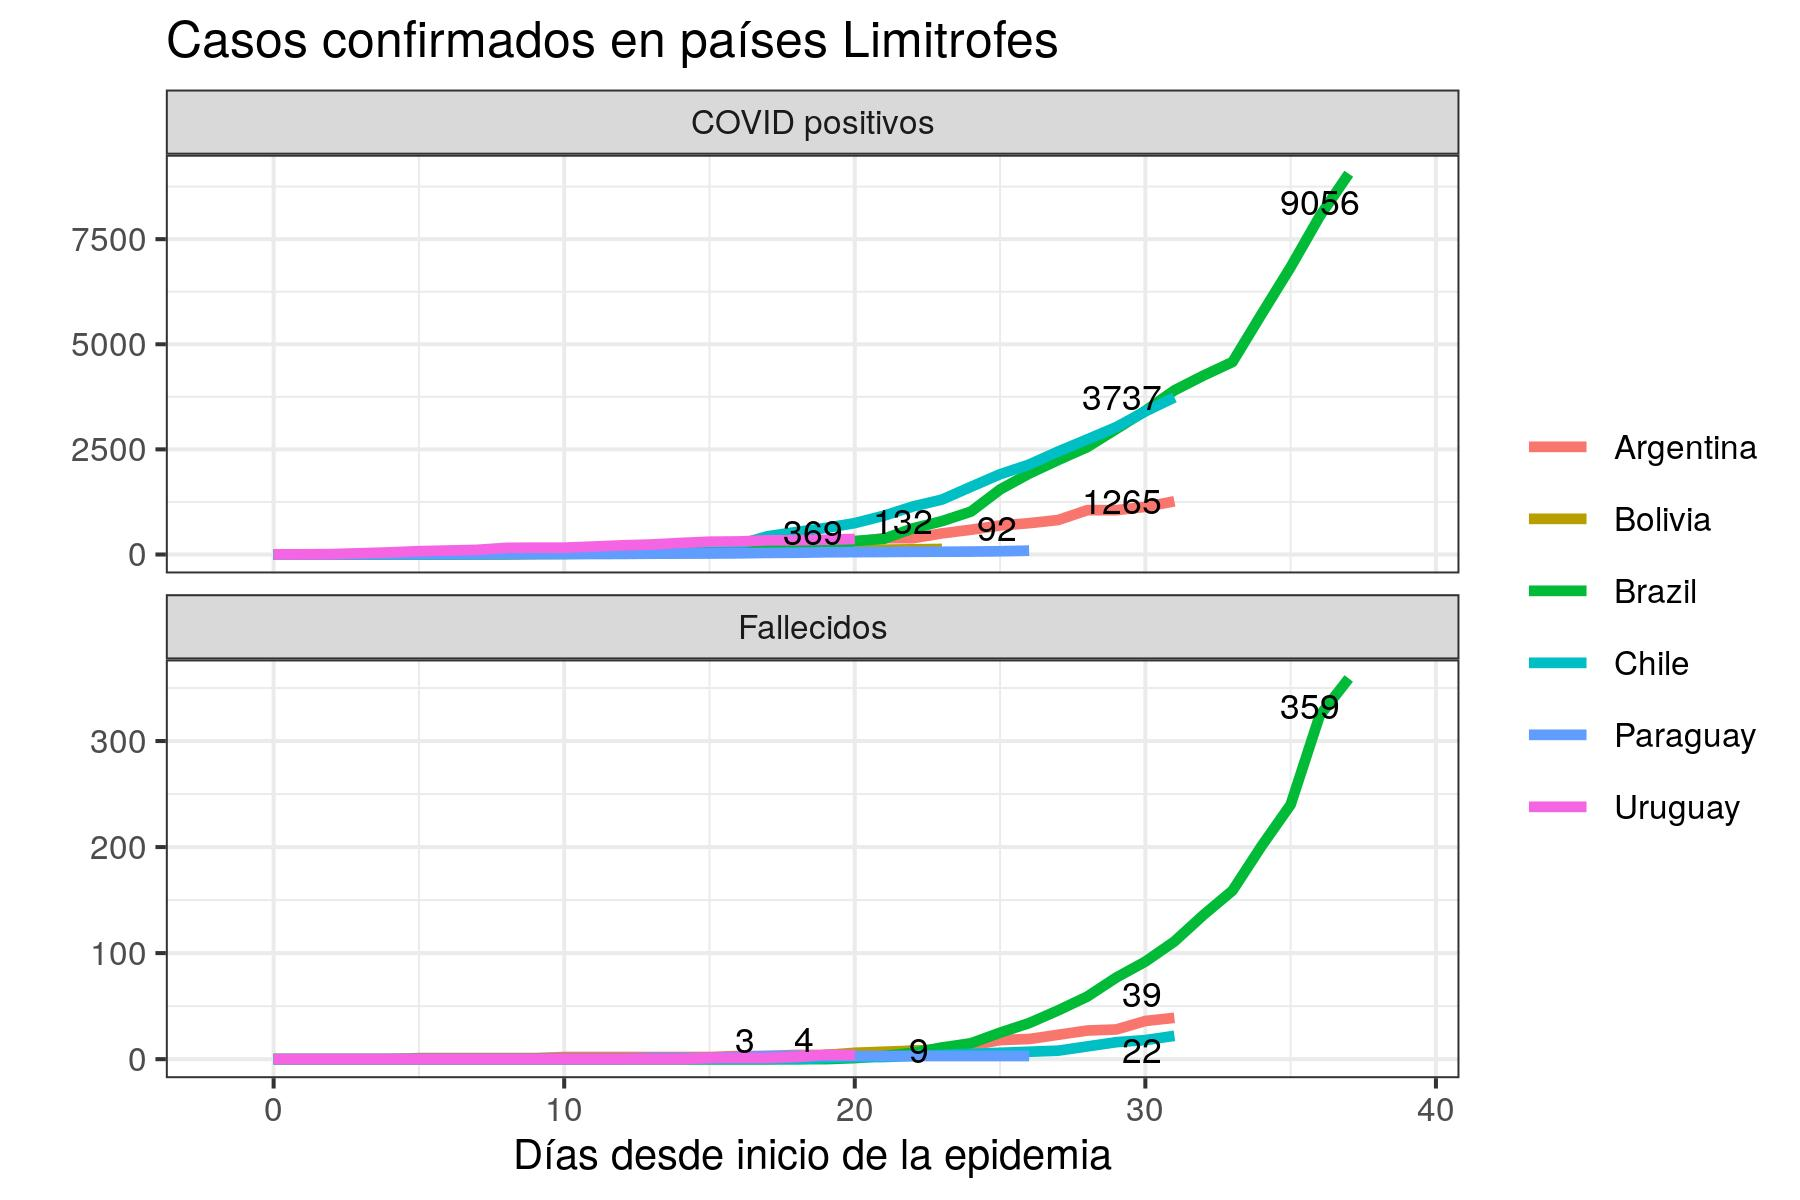
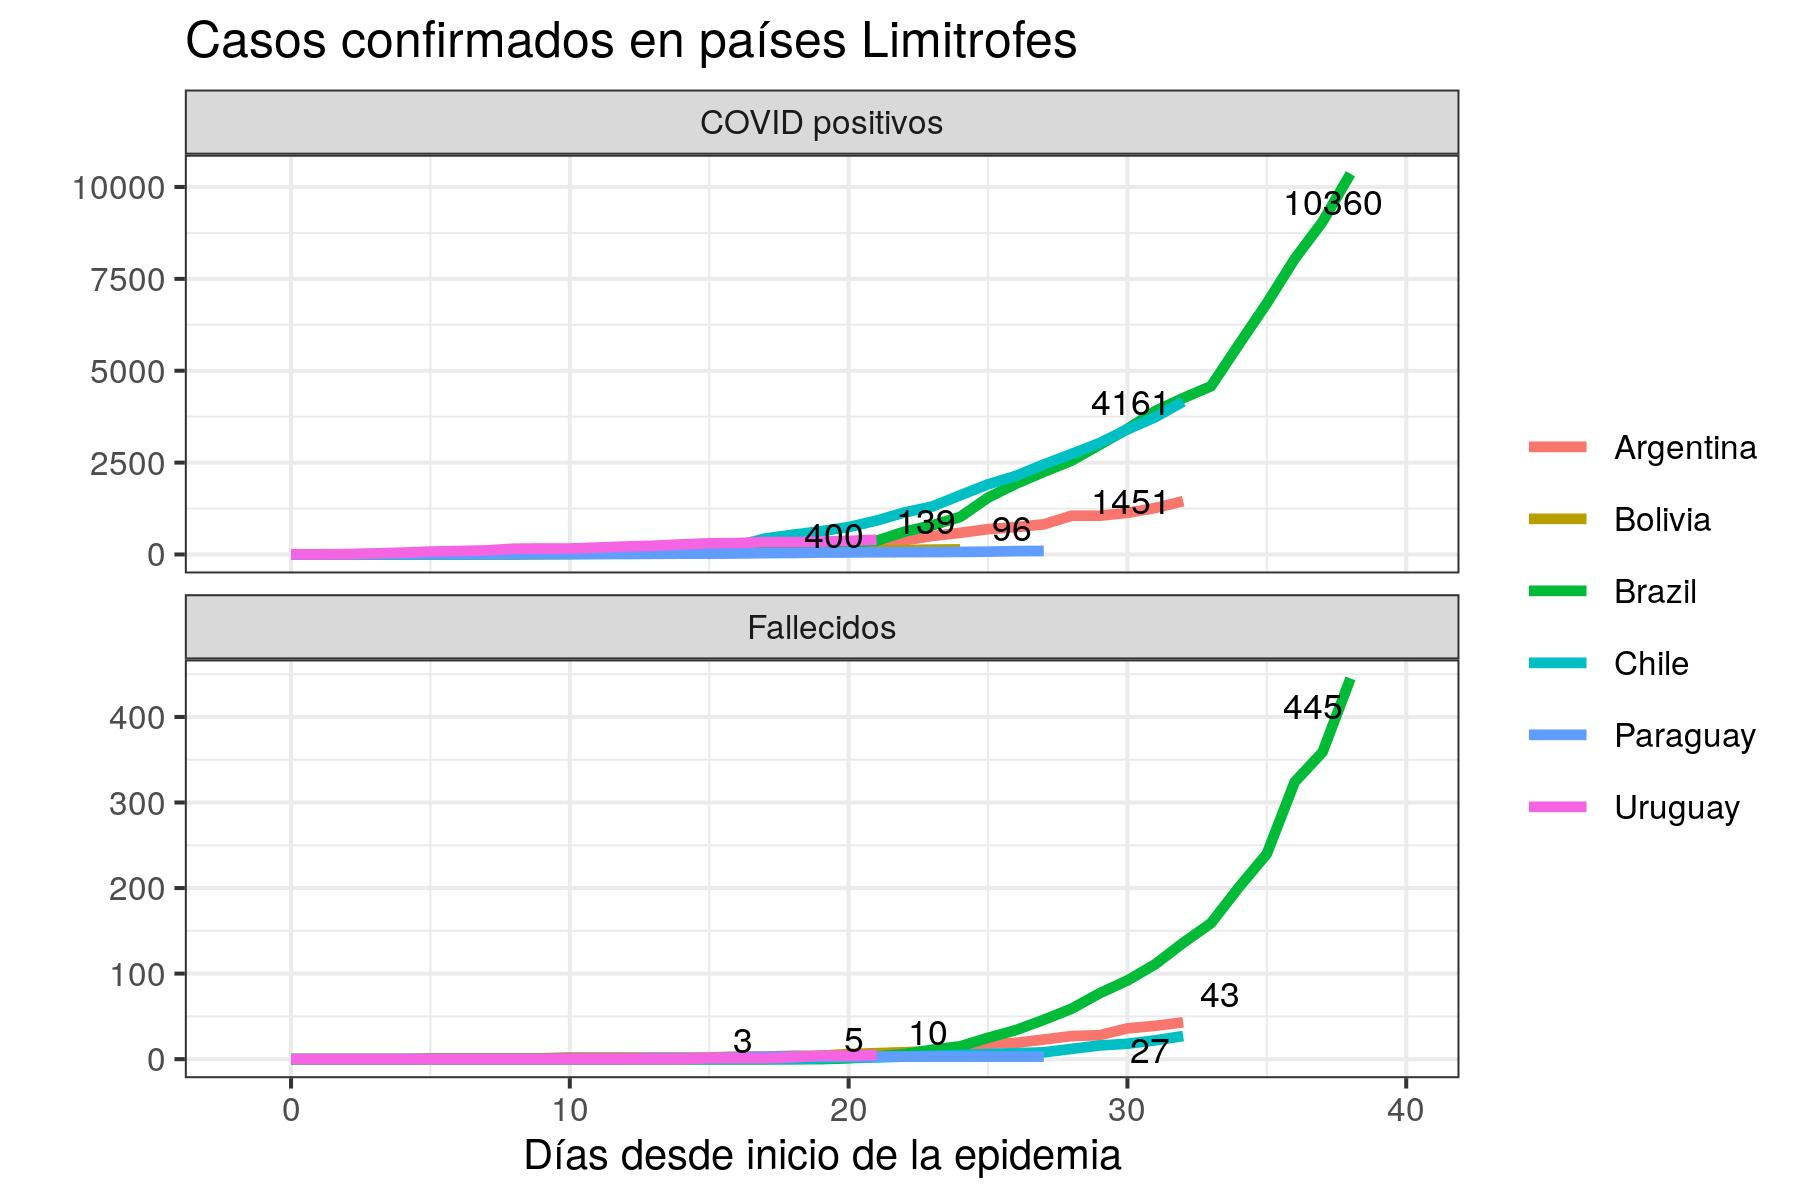
new section

diff --git a/organiza_vete.html b/organiza_vete.html
@@ -12,7 +12,7 @@
 
 
 
-<title>about_us.utf8.md</title>
+<title>organiza_vete.utf8.md</title>
 
 <script src="site_libs/jquery-1.11.3/jquery.min.js"></script>
 <meta name="viewport" content="width=device-width, initial-scale=1" />
@@ -301,50 +301,14 @@ $(document).ready(function () {
 
 
 <p><br><br></p>
-<p><br></p>
-<img src="images/0_facundo.jpg" width="200" align="left"/>
-<div style="text-align: center">
-<em>El sistema permite adecuar los diseños de políticas de intervención de acuerdo a lo que esté sucediendo en la localidad, lo cual implica que se pueden tomar decisiones basadas en datos e informaciones provenientes de la ciencia y tecnología. Es una oportunidad que permite dar un salto cualitativo con resultados relevantes para la comunidad. La decisión política de implementarlo permitirá dar un paso hacia la innovación en la gestión municipal frente al COVID19</em>
-</div>
-<br>
-<div style="text-align: center">
-<strong>Facundo Quiroz, director de la EEA INTA Balcarce</strong>
-</div>
-<div id="section" class="section level2">
-<h2></br></h2>
-<p></br></p>
-<img src="images/0_miguel1.png" width="180" align="left"/>
-<div style="text-align: center">
-<p><em>En este escenario de pandemia, la propuesta permite tomar decisiones con datos e información relevada, validada y analizada en tiempo real. Es momento de poner a disposición nuestros recursos. La prioridad es la comunidad”</em></p>
-</div>
-<br>
-<div style="text-align: center">
-<strong>Miguel Pereyra Iraola, Vicedecano de la Facultad de Ciencias Agrarias de la UNMdP</strong>
-</div>
-</div>
-<div id="section-1" class="section level2">
-<h2></br></h2>
-<p></br> </br> </br> </br></p>
-<img src="images/0_francisco.jpg" width="200" align="left"/>
-<div style="text-align: center">
-<p><em>Es trascendental que el control de la epidemia podamos centrarlo en el comportamiento social, no basta con detectar personas con síntomas. Es por ello que en esta propuesta, estamos integrando a poblaciones en estado de vulnerabilidad, quienes no suelen tener acceso a la salud o a la información”</em></p>
-</div>
-<br>
-<div style="text-align: center">
-<strong>Francisco Gonzáles, coordinador del Primer Nivel de Atención del Hospital Fossati</strong>
-</div>
-<p></br> </br></p>
-<img src="images/0_julian.jpeg" width="200" align="left"/>
-<div style="text-align: center">
-<p><em>Estamos trabajando en la presentación de un proyecto conjunto en la Agencia Nacional de Promoción de la Investigación, Desarrollo Tecnológico y la Innovación. Esto podría ayudarnos a mejorar tanto nuestra capacidad diagnóstica como el manejo epidemiológico frente a eventos de esta naturaleza y magnitud"</em></p>
-</div>
-<br>
-<div style="text-align: center">
-<strong>Julián Verona, jefe de laboratorio del nosocomio</strong>
-</div>
-<p><br> <br></p>
-<hr />
-<p>Equipo completo de colaboradores: en construcción</p>
+<div id="como-estamos-organizados" class="section level2">
+<h2>Como estamos organizados?</h2>
+<p><br> <img src="logos/1_operativo.jpeg" width="250px" style="background-color: #FFFFFF; padding:10px; display: inline-block;" /><img src="logos/2_biblio.jpeg" width="250px" style="background-color: #FFFFFF; padding:10px; display: inline-block;" /><img src="logos/3_encuestas.jpeg" width="250px" style="background-color: #FFFFFF; padding:10px; display: inline-block;" /><img src="logos/4_encuestadores.jpeg" width="250px" style="background-color: #FFFFFF; padding:10px; display: inline-block;" /><img src="logos/5_mapas.jpeg" width="250px" style="background-color: #FFFFFF; padding:10px; display: inline-block;" /><img src="logos/6_model.jpeg" width="250px" style="background-color: #FFFFFF; padding:10px; display: inline-block;" /></p>
+<p><br> <img src="logos/1_operativo.jpeg" width="150px" style="float:left; padding:10px" /> <br> Este grupo es de gestión, integra y operativiza aquellas acciones que se trabajan en los demás grupos de trabajo. Se constituye como ámbito de enlace con el equipo de “CONTROL COVID-19 operativo”, el cual está gerenciado por las autoridades Municipales del Hospital y de la Policía (Comunal, bonaerense y DDI). <br> <br> <br> <br></p>
+<p><img src="logos/2_biblio.jpeg" width="150px" style="float:left; padding:10px" /> <br> Realiza una difusión selectiva de información (DSI) suministrando información especializada al resto de los grupos de trabajo, mediante acceso a bibliotecas y revistas científicas del mundo. Se encarga de crear repositorios de la información generada en el ámbito de trabajo de los diferentes grupos. Busca bibliografía internacional, actualiza conceptos, sistematiza información bibliográfica, facilita la construcción de marcos teóricos y estado del arte. Es uno de los grupos que realiza el seguimiento de la comunidad científica internacional. <br> <br></p>
+<p><img src="logos/3_encuestas.jpeg" width="150px" style="float:left; padding:10px" /> <br> Diseña procesos y construcción de herramientas, según las necesidades de información que se requiera. En este espacio se discute y diagrama, por ejemplo, tipo de encuestas, preguntas, alternativas para la implementación, entre otros. <br> <br> <br> <br></p>
+<p><img src="logos/5_mapas.jpeg" width="150px" style="float:left; padding:10px" /> <br> Se ocupa de la georreferenciación de los datos y transformación de información en diversos tipos de mapas o cartografía. Se compatibilizan e integran herramientas e información. <br> <br> <br> <br> <br></p>
+<p><img src="logos/6_model.jpeg" width="150px" style="float:left; padding:10px" /> <br> Este grupo de trabajo integra la información generada tanto en los otros de diversas otras fuentes. Analiza los resultados de las encuestas, genera modelos predictivos locales y evalúa nuevos estudios. Busca adelantarse en la construcción de escenarios (simulación mediante modelos predictivos) de impacto del COVID-19 en Balcarce y en la identificación de casos o focos del virus. Los múltiples análisis y conclusiones, son una herramienta para la toma de decisiones.</p>
 </div>
 
 

diff --git a/status_covid19.html b/status_covid19.html
@@ -281,6 +281,9 @@ $(document).ready(function () {
 <li>
   <a href="about_us.html">Sobre nosotros</a>
 </li>
+<li>
+  <a href="organiza_vete.html">Nuestra organización</a>
+</li>
       </ul>
       <ul class="nav navbar-nav navbar-right">
         
@@ -298,9 +301,52 @@ $(document).ready(function () {
 
 
 <p><br></p>
+<pre class="r"><code>source(&quot;_site.R&quot;) # especificaciones globales</code></pre>
+<pre class="r"><code>source(&#39;scripts/rates_global.R&#39;)</code></pre>
+<pre><code>## Warning in countrycode(country, origin = &quot;country.name&quot;, destination = &quot;iso3c&quot;): Some values were not matched unambiguously: Diamond Princess, Kosovo, MS Zaandam
+
+## Warning in countrycode(country, origin = &quot;country.name&quot;, destination = &quot;iso3c&quot;): Some values were not matched unambiguously: Diamond Princess, Kosovo, MS Zaandam
+
+## Warning in countrycode(country, origin = &quot;country.name&quot;, destination = &quot;iso3c&quot;): Some values were not matched unambiguously: Diamond Princess, Kosovo, MS Zaandam
+
+## Warning in countrycode(country, origin = &quot;country.name&quot;, destination = &quot;iso3c&quot;): Some values were not matched unambiguously: Diamond Princess, Kosovo, MS Zaandam</code></pre>
+<pre><code>## Joining, by = &quot;country&quot;
+## Joining, by = &quot;country&quot;</code></pre>
+<pre><code>## Warning: Removed 28 rows containing non-finite values (stat_smooth).</code></pre>
+<pre><code>## Warning: Removed 28 rows containing missing values (geom_point).</code></pre>
+<pre><code>## Warning: Removed 26 rows containing missing values (geom_smooth).</code></pre>
+<pre><code>## Warning: Removed 25 rows containing non-finite values (stat_smooth).</code></pre>
+<pre><code>## Warning: Removed 25 rows containing missing values (geom_point).</code></pre>
+<pre><code>## Warning: Removed 13 rows containing missing values (geom_smooth).</code></pre>
+<pre class="r"><code>source(&#39;scripts/rates_arg.R&#39;)</code></pre>
+<pre><code>## Warning: Missing column names filled in: &#39;X1&#39; [1], &#39;X2&#39; [2], &#39;X3&#39; [3], &#39;X4&#39; [4],
+## &#39;X5&#39; [5], &#39;X6&#39; [6], &#39;X7&#39; [7], &#39;X8&#39; [8], &#39;X9&#39; [9], &#39;X10&#39; [10], &#39;X11&#39; [11],
+## &#39;X12&#39; [12], &#39;X13&#39; [13], &#39;X14&#39; [14], &#39;X15&#39; [15], &#39;X16&#39; [16], &#39;X17&#39; [17],
+## &#39;X18&#39; [18], &#39;X19&#39; [19], &#39;X20&#39; [20], &#39;X21&#39; [21], &#39;X22&#39; [22]</code></pre>
+<pre><code>## Sheet-identifying info appears to be a browser URL.
+## googlesheets will attempt to extract sheet key from the URL.</code></pre>
+<pre><code>## Putative key: 1M7uDgWSfy6z1MNbC9FP6jTNgvY7XchJ0m-BfW88SKtQ</code></pre>
+<pre><code>## Worksheets feed constructed with public visibility</code></pre>
+<pre><code>## Accessing worksheet titled &#39;Sheet1&#39;.</code></pre>
+<pre><code>## Warning: Missing column names filled in: &#39;X1&#39; [1], &#39;X2&#39; [2], &#39;X3&#39; [3], &#39;X4&#39; [4],
+## &#39;X5&#39; [5], &#39;X8&#39; [8], &#39;X9&#39; [9]</code></pre>
+<pre><code>## Warning: Duplicated column names deduplicated: &#39;Fecha&#39; =&gt; &#39;Fecha_1&#39; [17],
+## &#39;Importados&#39; =&gt; &#39;Importados_1&#39; [18], &#39;Contacto estrecho / Conglomerado&#39;
+## =&gt; &#39;Contacto estrecho / Conglomerado_1&#39; [19], &#39;Transmisión Comunitaria&#39; =&gt;
+## &#39;Transmisión Comunitaria_1&#39; [20], &#39;En estudio&#39; =&gt; &#39;En estudio_1&#39; [21], &#39;Total&#39;
+## =&gt; &#39;Total_1&#39; [22]</code></pre>
+<pre><code>## Parsed with column specification:
+## cols(
+##   .default = col_double(),
+##   X1 = col_character(),
+##   X9 = col_logical(),
+##   Fecha = col_character(),
+##   Fecha_1 = col_character()
+## )</code></pre>
+<pre><code>## See spec(...) for full column specifications.</code></pre>
 <p><br></p>
-<div id="status-covid19-global-04-abr-2020" class="section level1">
-<h1>Status COVID19 global 04 abr 2020</h1>
+<div id="status-covid19-global-05-abr-2020" class="section level1">
+<h1>Status COVID19 global 05 abr 2020</h1>
 <p><br> <img src="plots/global_log.jpg" width="600px"> <br></p>
 <div id="factor-de-crecimiento-medida-del-progreso-diario-de-nuevos-casos" class="section level2">
 <h2>Factor de crecimiento: medida del progreso diario de nuevos casos</h2>
@@ -312,8 +358,8 @@ $(document).ready(function () {
 <p><img src="plots/latam_GF.jpg" width="600px"></p>
 <p><br></p>
 </div>
-<div id="status-argentina-al-04-abr-2020" class="section level2">
-<h2>Status Argentina al 04 abr 2020</h2>
+<div id="status-argentina-al-05-abr-2020" class="section level2">
+<h2>Status Argentina al 05 abr 2020</h2>
 <p><br> <img src="plots/p_ARG.jpg" width="600px"> <br></p>
 </div>
 <div id="qué-modelo-ajusta-mejor-al-progreso-de-infectados-en-argentina" class="section level2">
@@ -324,8 +370,20 @@ $(document).ready(function () {
 </div>
 <div id="status-en-sudeste-de-buenos-aires" class="section level2">
 <h2>Status en Sudeste de Buenos Aires</h2>
-<p>04 abr 2020</p>
+<p>05 abr 2020</p>
+<pre class="r"><code>source(&#39;scripts/mapa.R&#39;)</code></pre>
+<pre><code>## Warning in st_centroid.sfc(muni$geometry): st_centroid does not give correct
+## centroids for longitude/latitude data</code></pre>
+<pre><code>## Warning: Column `NAM` joining factor and character vector, coercing into
+## character vector</code></pre>
 <p><img src="plots/mapa.jpg" width="600px"></p>
+<pre class="r"><code>## Que tipo de infección tenemos?
+- importados: personas que volvieron del exterior habiendose contagiado afuera
+
+- contactos: casos por transmisión de contactos estrechos de casos importados
+
+- comunitarios/local: casos referidos como en estudio epidemiológico o sospechoso de comunitarios
+&lt;img src=&quot;plots/tipo_infeccion_ARG.jpg&quot; width=&quot;600px&quot;&gt;</code></pre>
 </div>
 </div>
 

diff --git a/_site.css b/_site.css
@@ -1,2 +1,15 @@
 /* html-md-01.css */
 
+ /* Three image containers (use 25% for four, and 50% for two, etc) */
+.column {
+  float: left;
+  width: 33.33%;
+  padding: 5px;
+}
+
+/* Clear floats after image containers */
+.row::after {
+  content: "";
+  clear: both;
+  display: table;
+} 

diff --git a/proyecciones_balcarce.html b/proyecciones_balcarce.html
@@ -281,6 +281,9 @@ $(document).ready(function () {
 <li>
   <a href="about_us.html">Sobre nosotros</a>
 </li>
+<li>
+  <a href="organiza_vete.html">Nuestra organización</a>
+</li>
       </ul>
       <ul class="nav navbar-nav navbar-right">
         
